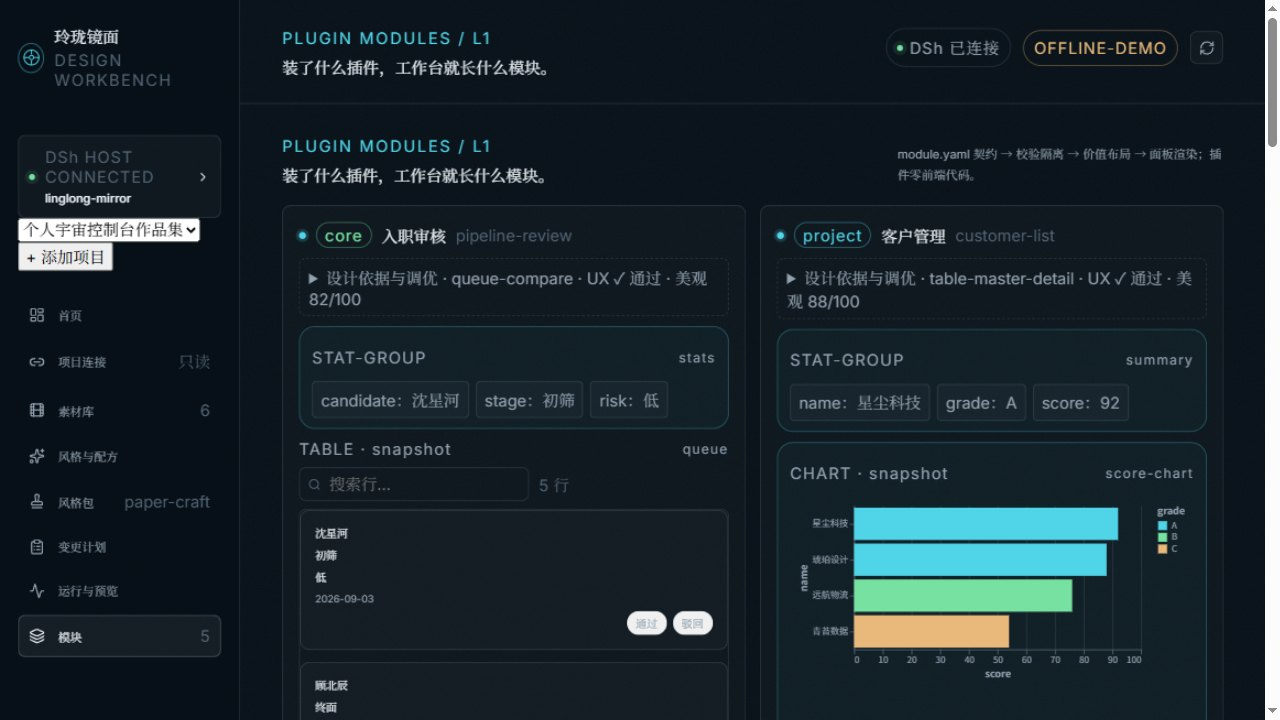
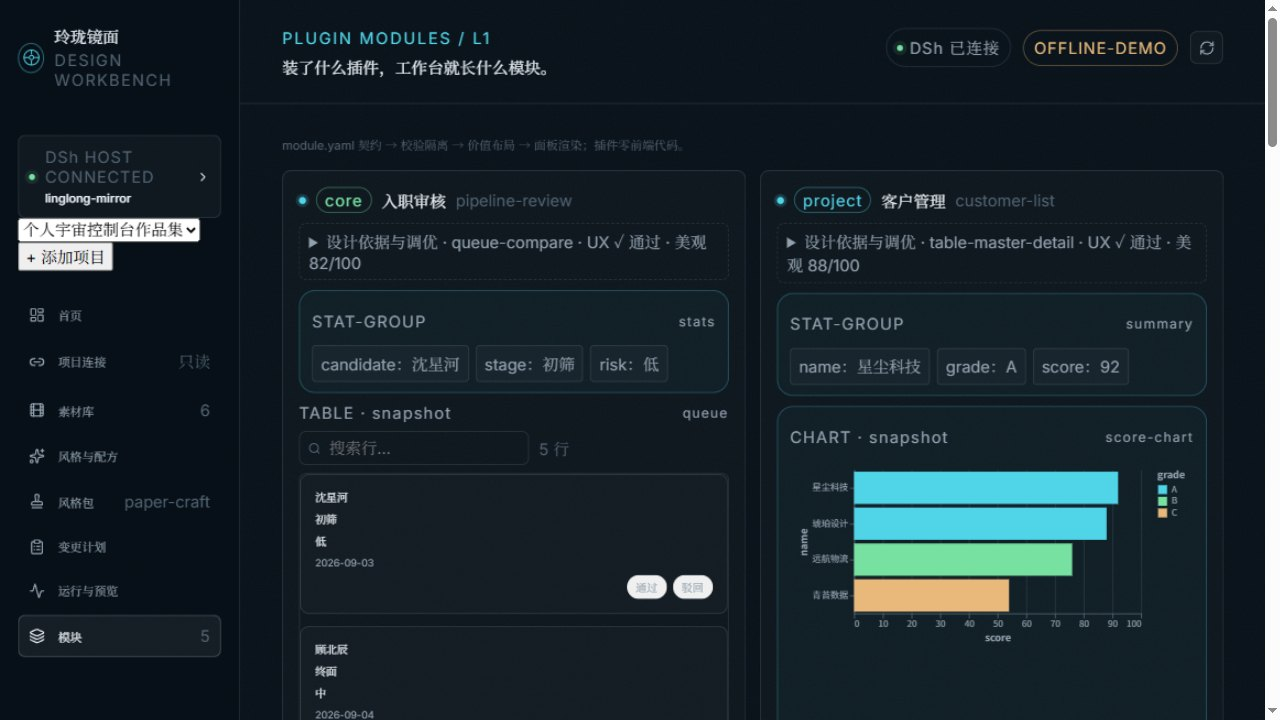
X 光扫三个真项目的报告进证据区；镜面工作台完善后重截
（林公子指令：X 光测别的项目作演示图；镜面前端完善好再截图、自对照验收）

案例 02 证据 1→3 张：
- 01 潮汛现役仓（保留，2026-10-31 L1：446 文件 / 479 项）
- 02 新增·作品集站自扫：45 文件 1.9 秒，60 项发现（19 高危 XSS / 41 低危），100% 可修复
- 03 新增·玲珑职举后端：58 文件 0.3 秒，12 项发现（2 严重 / 10 低危），100% 可修复
- 三份报告均用重构后的新模板生成（reports/ 已存档），路径照例打码

镜面工作台完善（dsh-plugin/ui 源码 + vite 重建 workbench-dist）：
- ModulesView 去掉与 App 全局头逐字重复的 SectionTitle（kicker 唯一性计算验证=1），
  契约链路降为 .modules-note 说明行
- 项目切换 select 补 hover/focus-visible 焦点环（brand 色 2px 环）
- 自对照验收：kicker 计数 1、无 <12px 文本、tsc 0 错；镜面仓 738 测试全绿
- 04-mirror 两张证据图替换为完善后实机截图

89 passed；origin/cn 未 push

diff --git a/case/02-xray-security.html b/case/02-xray-security.html
@@ -55,6 +55,24 @@
         <span class="ev-meta">数字出处：2026-10-31 实测 446 文件 · 479 项发现（40 严重 / 1 高危 / 438 低），99% 可修复；本机路径已打码 · 截图 2026-10-31</span>
       </figcaption>
     </figure>
+    <figure class="evidence">
+      <a href="assets/evidence/02-xray-02.jpg" target="_blank" rel="noopener">
+        <img src="assets/evidence/02-xray-02.jpg" width="1280" height="720" alt="玲珑X光对本作品集站的全站静态侦察报告" loading="lazy" decoding="async">
+      </a>
+      <figcaption>
+        <b>操作：</b>对本作品集站做全站静态侦察——扫自己的站，发现直出修复建议
+        <span class="ev-meta">数字出处：2026-10-31 实测：45 文件 1.9 秒，60 项发现（19 高危 / 41 低危），100% 可修复；本机路径已打码 · 截图 2026-10-31</span>
+      </figcaption>
+    </figure>
+    <figure class="evidence">
+      <a href="assets/evidence/02-xray-03.jpg" target="_blank" rel="noopener">
+        <img src="assets/evidence/02-xray-03.jpg" width="1280" height="720" alt="玲珑X光对玲珑职举后端的静态侦察报告" loading="lazy" decoding="async">
+      </a>
+      <figcaption>
+        <b>操作：</b>对玲珑职举后端 console_api 做静态侦察——本站内容的上游产线也在被审视
+        <span class="ev-meta">数字出处：2026-10-31 实测：58 文件 0.3 秒，12 项发现（2 严重 / 10 低危），100% 可修复；本机路径已打码 · 截图 2026-10-31</span>
+      </figcaption>
+    </figure>
   </section>
   <div class="pn-nav">
     <a href="01-huodai-platform.html"><div class="dir">← 上一篇</div><div class="ttl">潮汛平台</div></a>
